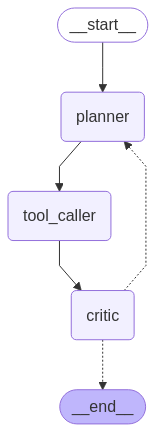
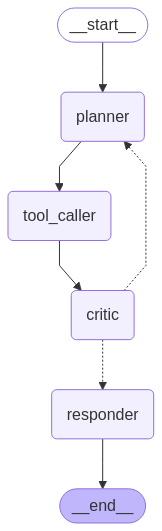
update graph and add web searching

diff --git a/graph/workflow_graph.py b/graph/workflow_graph.py
@@ -5,12 +5,14 @@ from langchain_core.runnables import Runnable
 from agents.planner_agent import planner_node
 from agents.tools import tool_caller_node
 from agents.critic_agent import critic_node
+from agents.responder_agent import responder_node
 
 class AgentState(TypedDict):
     query: Annotated[str, "query"]
     plan: Annotated[str, "plan"]
     tool_result: Annotated[str, "tool"]
     decision: Annotated[str, "decision"]
+    final_answer: Annotated[str, "final_answer"]
 
 def build_workflow_graph() -> Runnable:
     builder = StateGraph(state_schema=AgentState)
@@ -19,6 +21,8 @@ def build_workflow_graph() -> Runnable:
     builder.add_node("planner", planner_node)
     builder.add_node("tool_caller", tool_caller_node)
     builder.add_node("critic", critic_node)
+    builder.add_node("responder", responder_node)
+    builder.add_edge("responder", END) 
 
     # ▶ Entry Point
     builder.set_entry_point("planner")
@@ -31,14 +35,14 @@ def build_workflow_graph() -> Runnable:
     def route_critic(state: dict) -> str:
         decision = state.get("decision", "")
         if decision == "accept":
-            return END
+            return "responder"
         elif decision == "reject":
             return "planner"
         else:
             raise ValueError(f"Unexpected decision: {decision}")
 
     # 📍 조건부 분기 등록 (END 포함)
-    builder.add_conditional_edges("critic", route_critic, [END, "planner"])
+    builder.add_conditional_edges("critic", route_critic, ["responder", "planner"])
 
     # Remove this line that causes the error
     # builder.set_finish_point(END)

diff --git a/agents/responder_agent.py b/agents/responder_agent.py
@@ -1,0 +1,34 @@
+import os
+import openai
+
+from dotenv import load_dotenv
+
+from langchain_openai import ChatOpenAI
+from langchain_core.runnables import RunnableLambda
+
+load_dotenv()
+openai.api_key = os.getenv("OPENAI_API_KEY")
+
+llm = ChatOpenAI(model="gpt-4o-mini", temperature=0.3)
+
+
+PLANNER_PROMPT = """당신은 유능한 AI 비서입니다. 
+사용자의 질문은 다음과 같고:
+
+질문: {query}
+
+이에 대해 도구(tool)를 사용한 결과는 다음과 같습니다:
+
+도구 결과: {tool_result}
+
+이 결과를 바탕으로 자연스러운 사용자 응답을 생성해주세요.
+"""
+
+
+def responder_fn(state: dict) -> dict:
+    query = state["query"]
+    tool_result = state["tool_result"]
+    response = llm.invoke(PLANNER_PROMPT.format(query = query, tool_result = tool_result))
+    return {**state, "final_answer": response.content}
+
+responder_node = RunnableLambda(responder_fn)

diff --git a/agents/tools.py b/agents/tools.py
@@ -8,11 +8,9 @@ def calculate_compound_interest(principal: float, rate: float, years: int) -> st
     final_amount = principal * ((1 + rate) ** years)
     return f"복리 계산 결과는 약 {round(final_amount):,}원입니다."
 
-from duckduckgo_search import DDGS
-
 def search_web(query: str) -> str:
     with DDGS() as ddgs:
-        results = list(ddgs.text(query, max_results=1))
+        results = list(ddgs.text(query, max_results=3))
         if results:
             title = results[0].get('title')
             url = results[0].get('href')

diff --git a/agents/planner_agent.py b/agents/planner_agent.py
@@ -9,7 +9,7 @@ from langchain_core.runnables import RunnableLambda
 load_dotenv()
 openai.api_key = os.getenv("OPENAI_API_KEY")
 
-llm = ChatOpenAI(temperature=0.3)
+llm = ChatOpenAI(model="gpt-4o-mini", temperature=0.3)
 
 PLANNER_PROMPT = """
 You are a planning assistant. Based on the user query below, decide the most appropriate tool to use (calculator, python, search, etc.)

diff --git a/main.py b/main.py
@@ -1,9 +1,8 @@
-from IPython.display import display, Image
 from graph.workflow_graph import build_workflow_graph
 
 workflow = build_workflow_graph()
 result = workflow.invoke({
-    "query": "파이썬으로 factorial(5)을 계산하는 코드를 실행해줘"
+    "query": "이재명의 현재 상황에 대해서 알려줘."
 })
 
 print(result)

diff --git a/agents/critic_agent.py b/agents/critic_agent.py
@@ -9,7 +9,7 @@ load_dotenv()
 openai.api_key = os.getenv("OPENAI_API_KEY")
 
 # ✅ Critic LLM 설정: 적당한 다양성과 판단 허용을 위해 temperature = 0.5
-llm = ChatOpenAI(temperature=0.5)
+llm = ChatOpenAI(model="gpt-4o-mini", temperature=0.5)
 
 # ✅ 판단 기준을 강화한 Critic Prompt
 CRITIC_PROMPT = """
